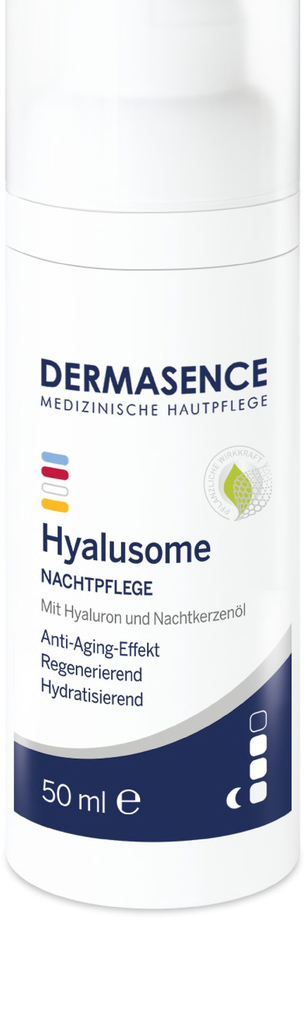
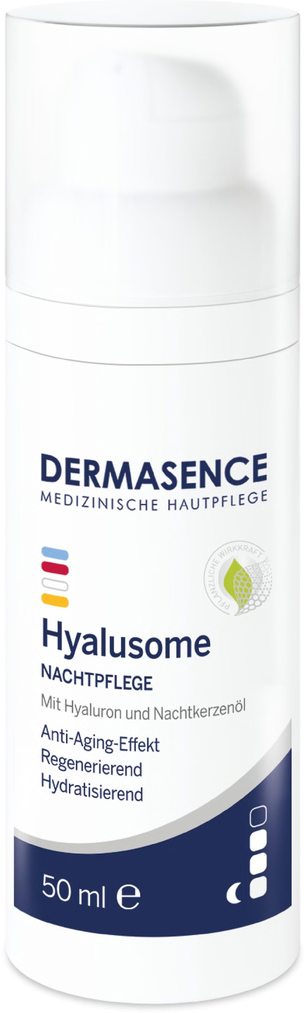
Bolletje gelijkgetrokken en uitsnede-fout hersteld
- Het bolletje op de productkaarten is nu 36 px en draait bij hover mee,
  net als op de behandelkaarten (.treat .go); het week daarvan af met 40 px
  en een vergroting
- bijsnijden.swift rekende de verticale positie van de uitsnede om alsof
  CoreGraphics van linksonder telt, terwijl cropping() van linksboven telt.
  Daardoor schoof het kader en viel er aan één kant een randje af: bij
  Renophase de onderkant van het woordmerk, bij de Mousse en de Hyalusome
  de bovenkant van de dop. Alle vijf de beelden opnieuw uitgesneden.

diff --git a/preview/css/mozi.css b/preview/css/mozi.css
@@ -370,9 +370,9 @@ em,.it{font-style:italic;font-weight:400}
 .product .img > img{position:absolute;inset:0;width:100%;height:100%;padding:7% 18% 8%;object-fit:contain;filter:drop-shadow(0 16px 22px rgba(0,0,0,.13));transform:scale(var(--s,1));transition:transform .6s var(--ease)}
 .product:hover .img > img{transform:translateY(-6px) scale(calc(var(--s,1) * 1.03))}
 .product .tag{position:absolute;top:12px;left:12px;z-index:1;font-size:11px;font-weight:500;background:var(--white);color:var(--ink);padding:5px 10px;border-radius:var(--r-pill)}
-.product .add{position:absolute;right:12px;bottom:12px;width:40px;height:40px;border-radius:50%;background:var(--black);color:var(--white);display:grid;place-items:center;border:0;cursor:pointer;transition:transform .2s var(--ease)}
-.product:hover .add{transform:scale(1.08)}
-.product .add .ico{width:18px;height:18px}
+.product .add{position:absolute;right:12px;bottom:12px;width:36px;height:36px;border-radius:50%;background:var(--black);color:var(--white);display:grid;place-items:center;border:0;cursor:pointer;transition:transform .3s var(--ease)}
+.product:hover .add{transform:rotate(-45deg)}
+.product .add .ico{width:16px;height:16px}
 /* Tegel naast de producten: doorverwijzing naar het productadvies */
 .shop-cta{display:flex;flex-direction:column;gap:10px;justify-content:center;text-decoration:none;background:var(--surface);border-radius:20px;padding:26px;transition:background .3s}
 .shop-cta:hover{background:var(--surface-2)}

diff --git a/tools/bijsnijden.swift b/tools/bijsnijden.swift
@@ -28,10 +28,11 @@ for y in 0..<h {
 }
 guard maxX >= minX, maxY >= minY else { print("Geen zichtbare pixels gevonden"); exit(1) }
 
-// CoreGraphics tekent van linksonder; cropping gaat per pixelrij van bovenaf.
-let rect = CGRect(x: minX, y: minY, width: maxX - minX + 1, height: maxY - minY + 1)
-guard let bij = img.cropping(to: CGRect(x: rect.minX, y: CGFloat(h) - rect.maxY,
-                                        width: rect.width, height: rect.height)) else {
+// minY/maxY zijn pixelrijen van bovenaf geteld, en cropping() rekent ook van linksboven.
+// Niet omrekenen dus: deed ik dat wel, dan schoof de uitsnede omhoog of omlaag en viel er
+// aan één kant een randje van het onderwerp af.
+guard let bij = img.cropping(to: CGRect(x: minX, y: minY,
+                                        width: maxX - minX + 1, height: maxY - minY + 1)) else {
   print("Bijsnijden mislukt"); exit(1)
 }
 
